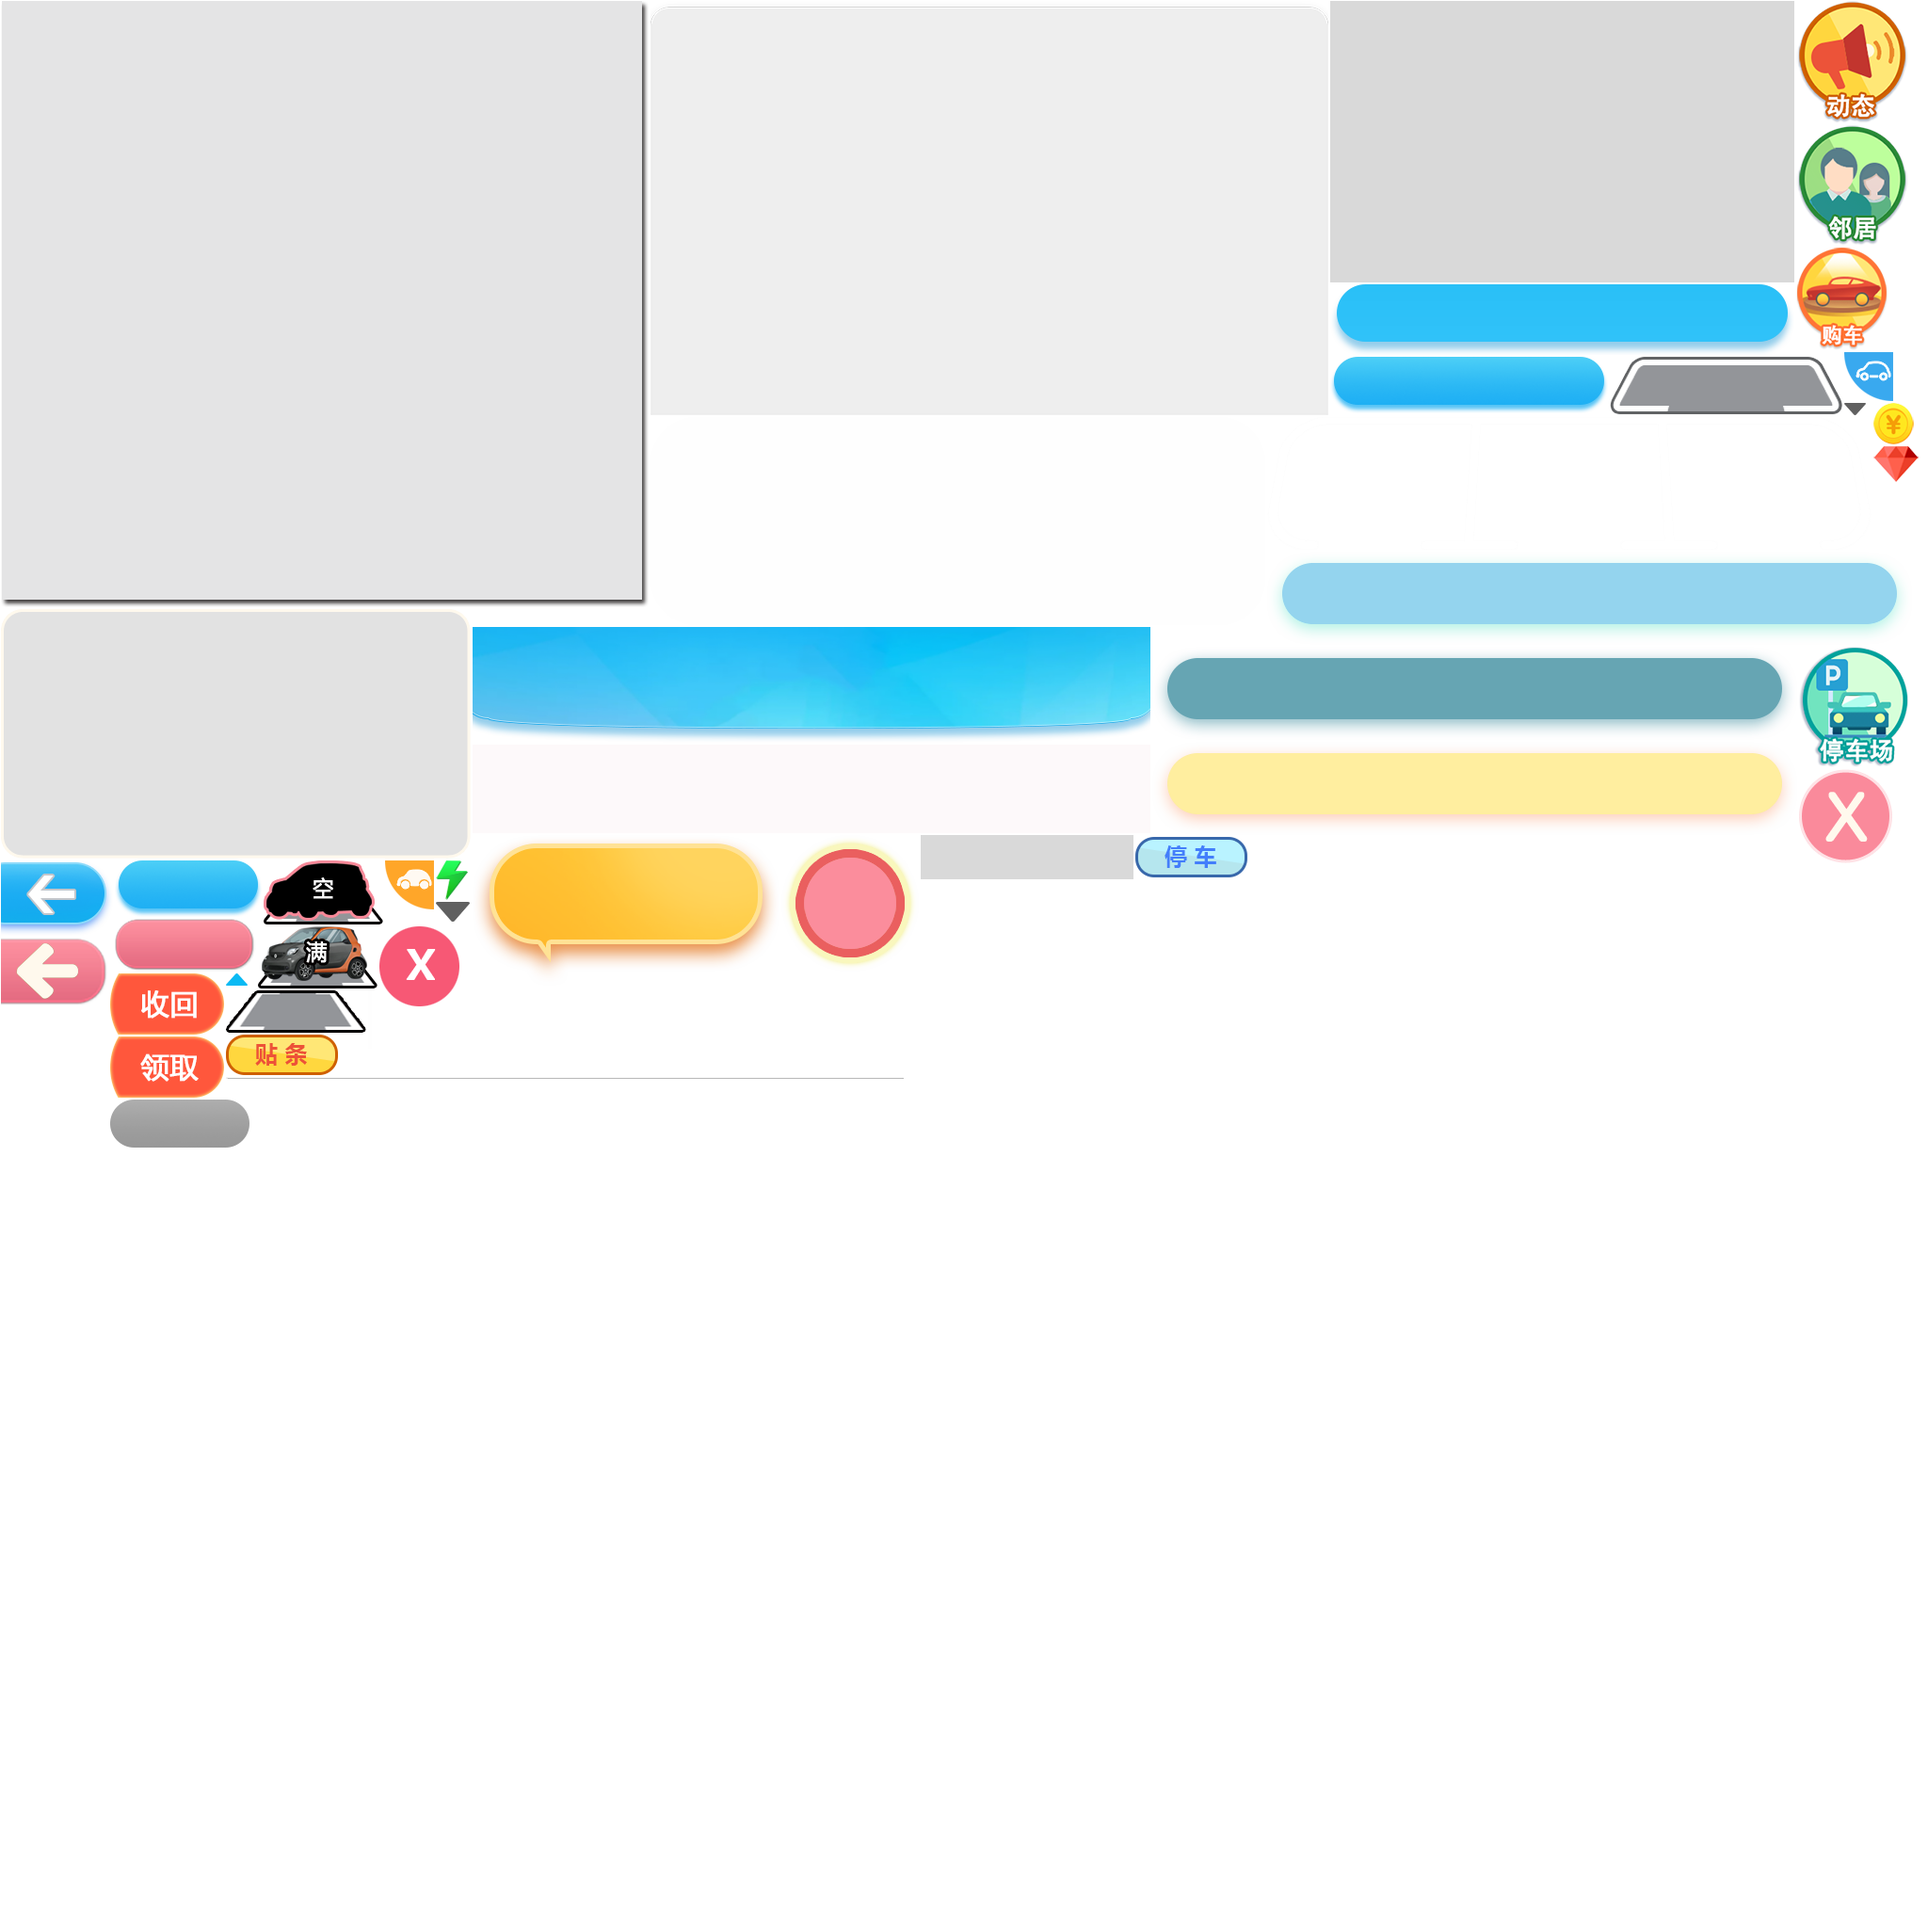
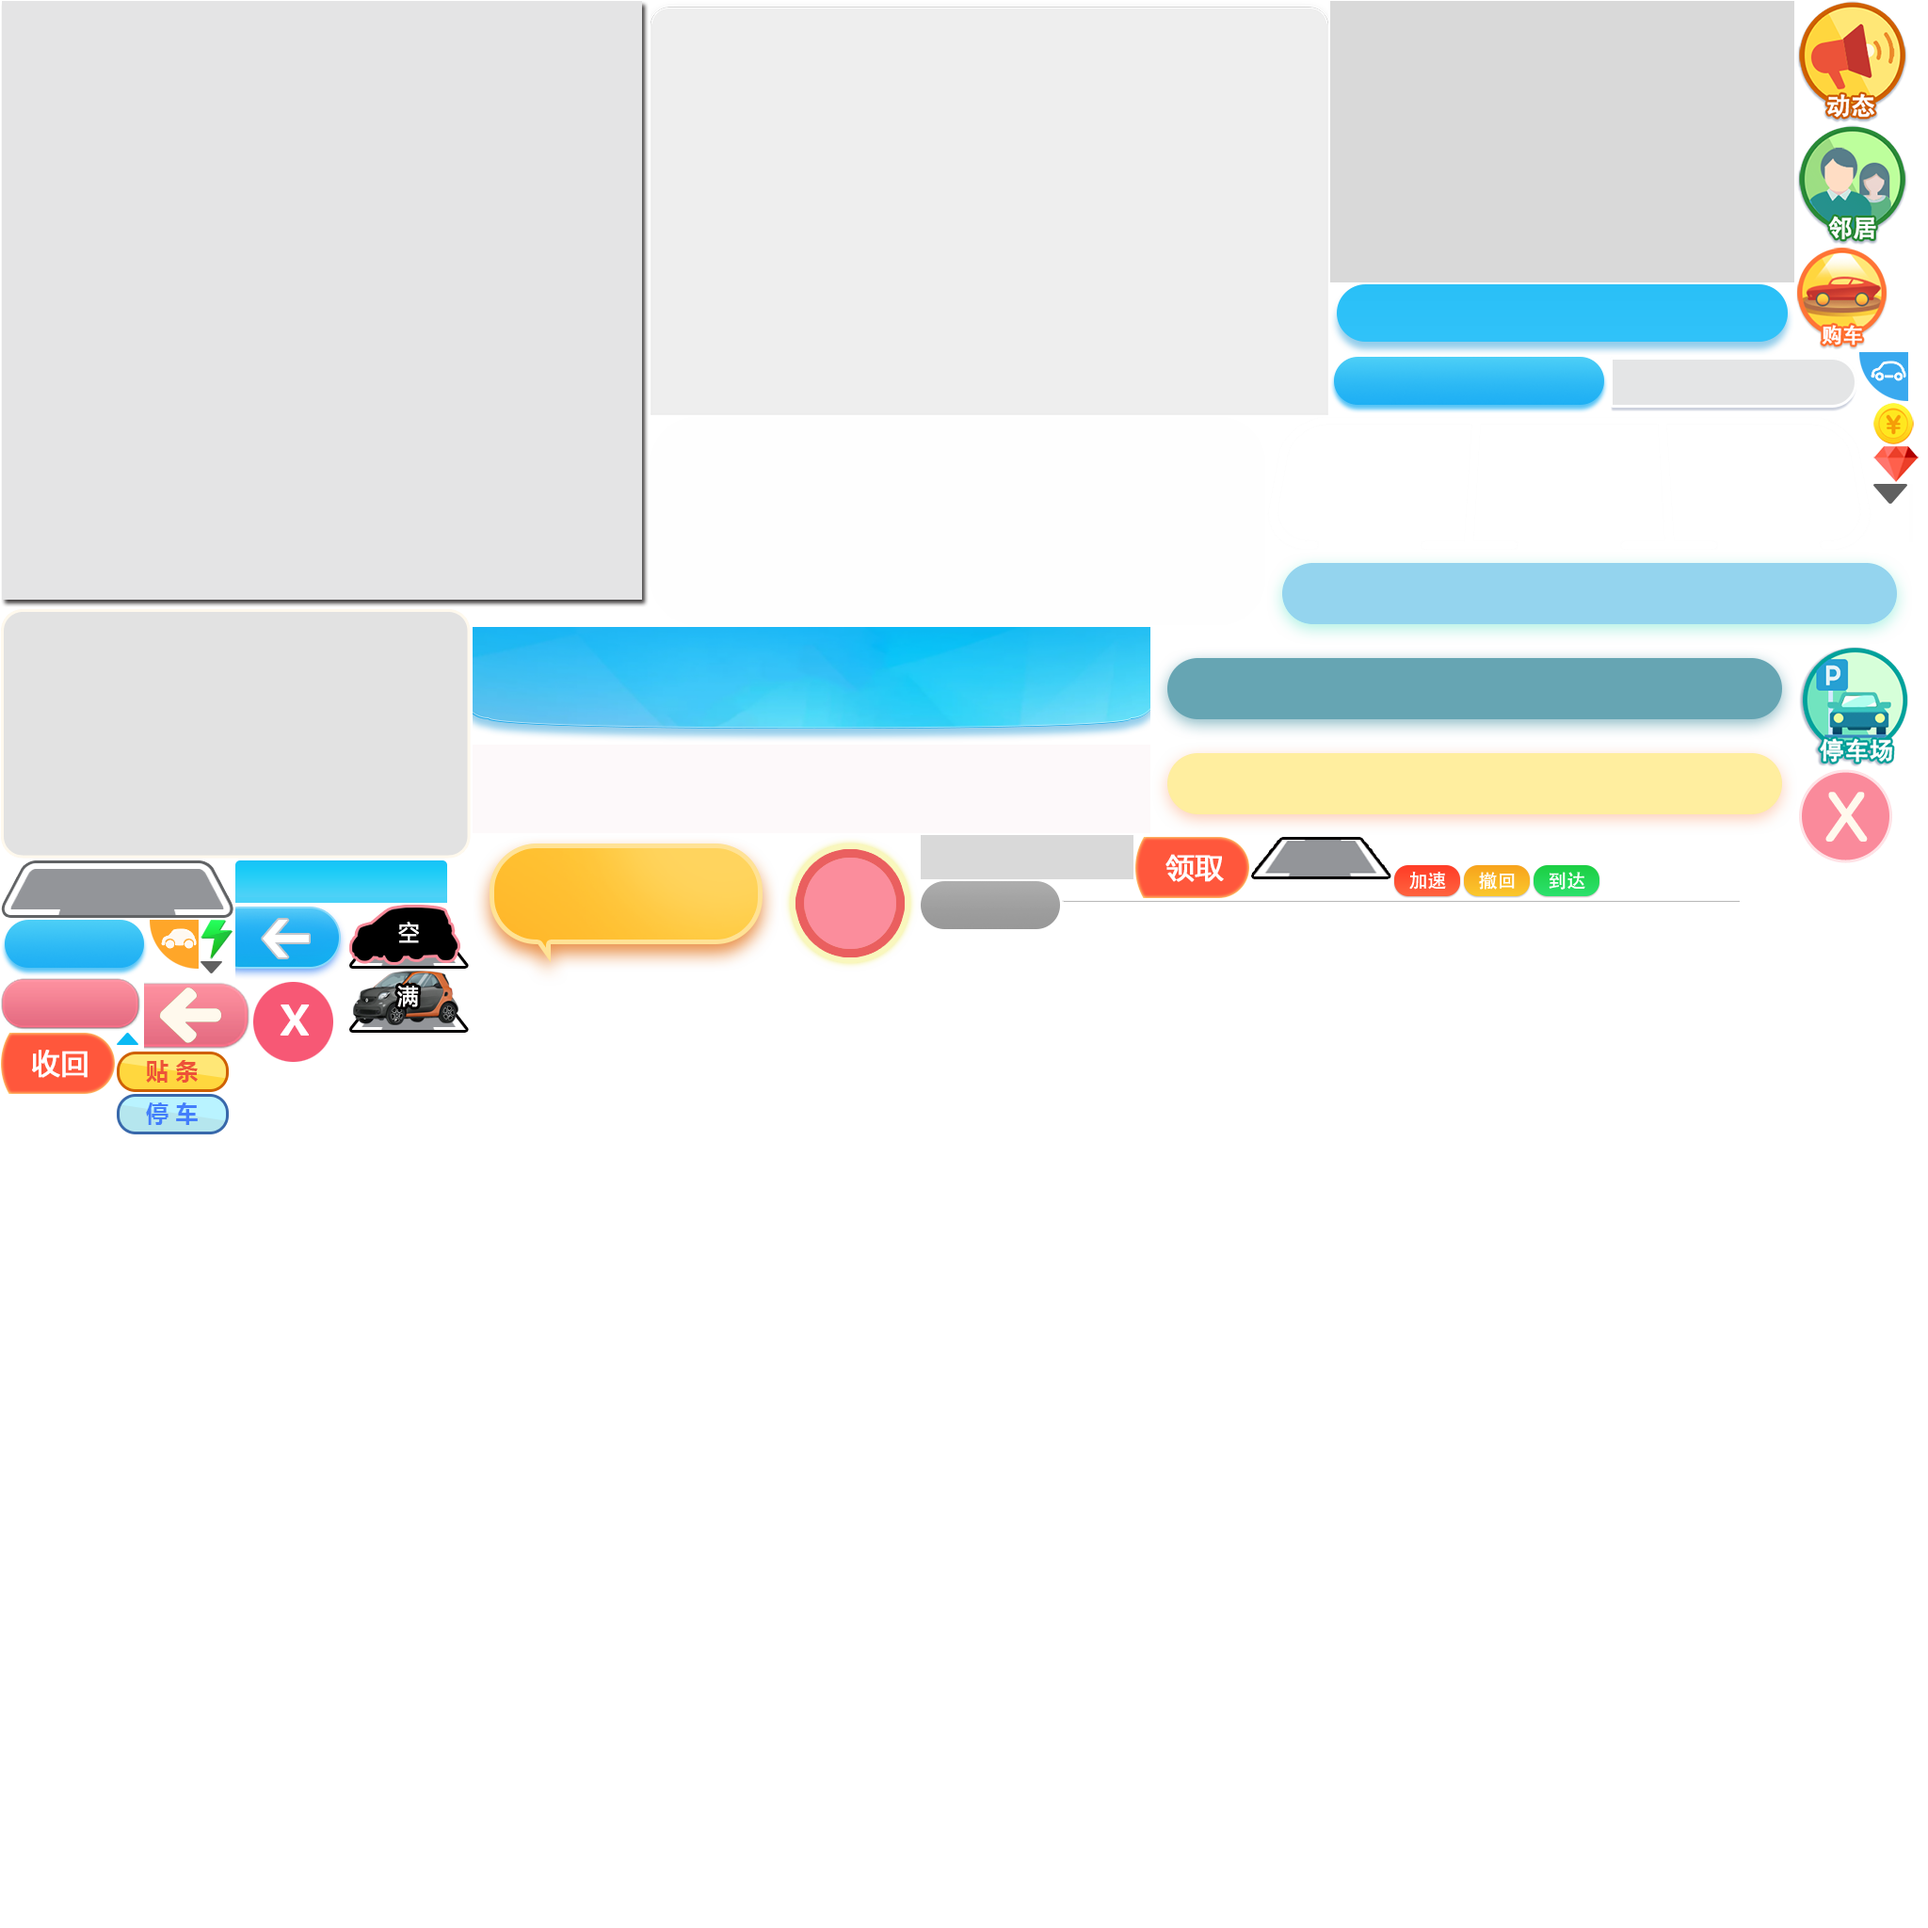
车出征贴图资源提交

diff --git a/ClientBoss/resource/others/css/mapUI.css b/ClientBoss/resource/others/css/mapUI.css
@@ -345,3 +345,90 @@
 	background-size:cover;
 	visibility:hidden;
 }
+
+#expeditionBtn{
+	width:396px;
+	height:138px;
+	margin:0;
+	padding:0;
+	top:200px;
+	border-style:none;
+	position:fixed;
+	right:0px;
+}
+.expedition_default{
+	background-image:url(../images/expedition_off.png);
+	background-size:cover;
+}
+.expedition_activate{
+	background-image:url(../images/expedition_on.png);
+	background-size:cover;
+}
+
+
+.expeditionState_speedUp{
+	background-image:url(../images/speedUp.png);
+	background-size:cover;
+}
+.expeditionState_active{
+	background-image:url(../images/arive.png);
+	background-size:cover;
+}
+.expeditionState_retract{
+	background-image:url(../images/retract.png);
+	background-size:cover;
+}
+
+#expeditionStateBtn_1{
+	width:146px;
+	height:72px;
+	margin:0;
+	padding:0;
+	border-style:none;
+	position:fixed;
+	left:100px;
+	top:308px;
+}
+#expeditionStateBtn_2{
+	width:146px;
+	height:72px;
+	margin:0;
+	padding:0;
+	border-style:none;
+	position:fixed;
+	left:200px;
+	top:371px;
+
+}
+#expeditionStateBtn_3{
+	width:146px;
+	height:72px;
+	margin:0;
+	padding:0;
+	border-style:none;
+	position:fixed;
+	left:10px;
+	top:434px;
+
+}
+#expeditionStateBtn_4{
+	width:146px;
+	height:72px;
+	margin:0;
+	padding:0;
+	border-style:none;
+	position:fixed;
+	left:10px;
+	top:497px;
+
+}#expeditionStateBtn_5{
+	width:146px;
+	height:72px;
+	margin:0;
+	padding:0;
+	border-style:none;
+	position:fixed;
+	left:10px;
+	top:560px;
+
+}
